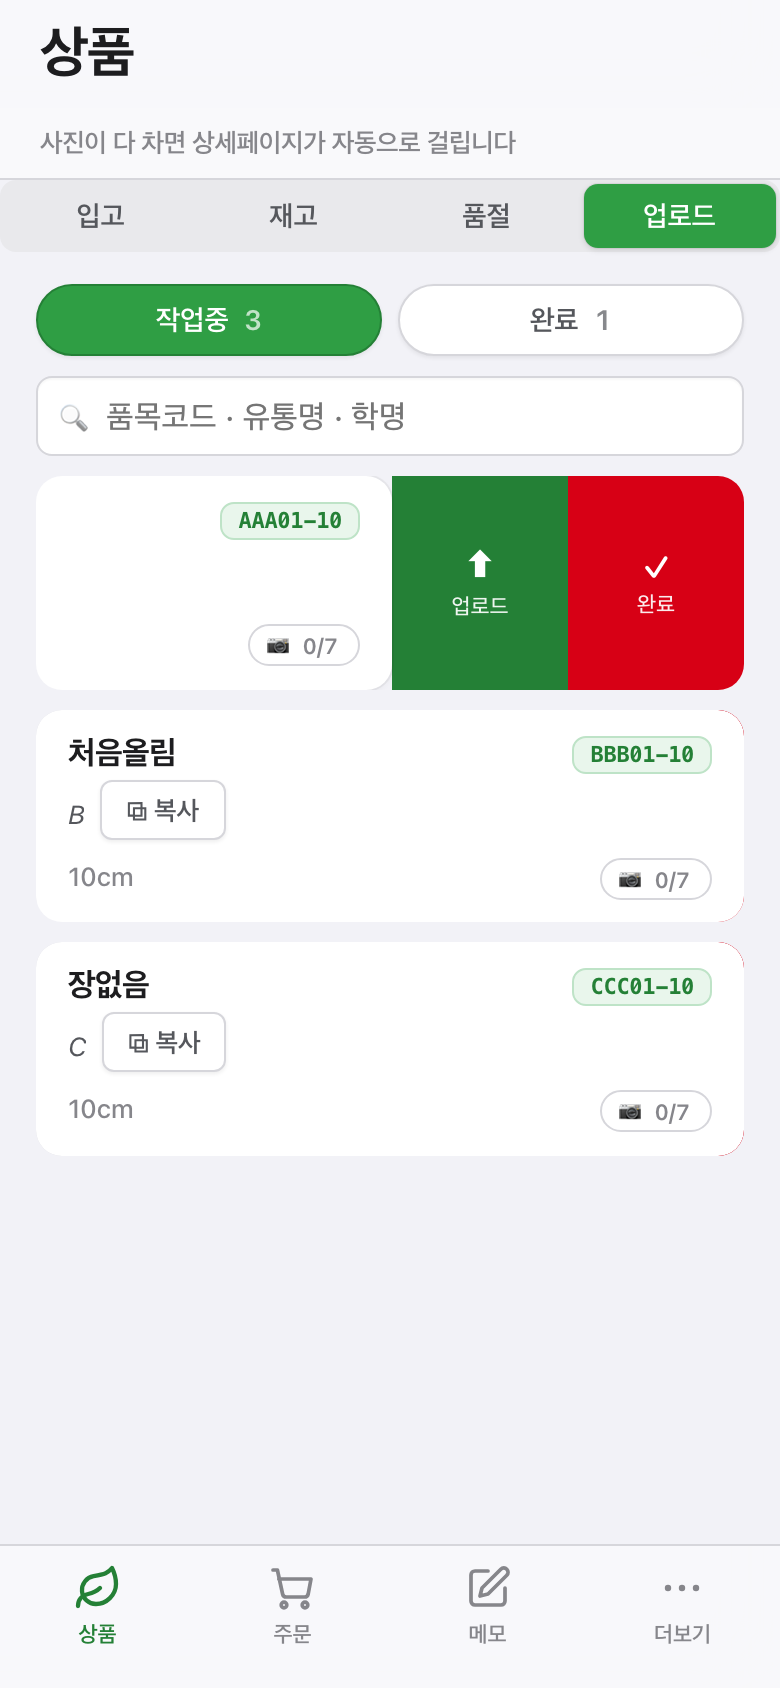
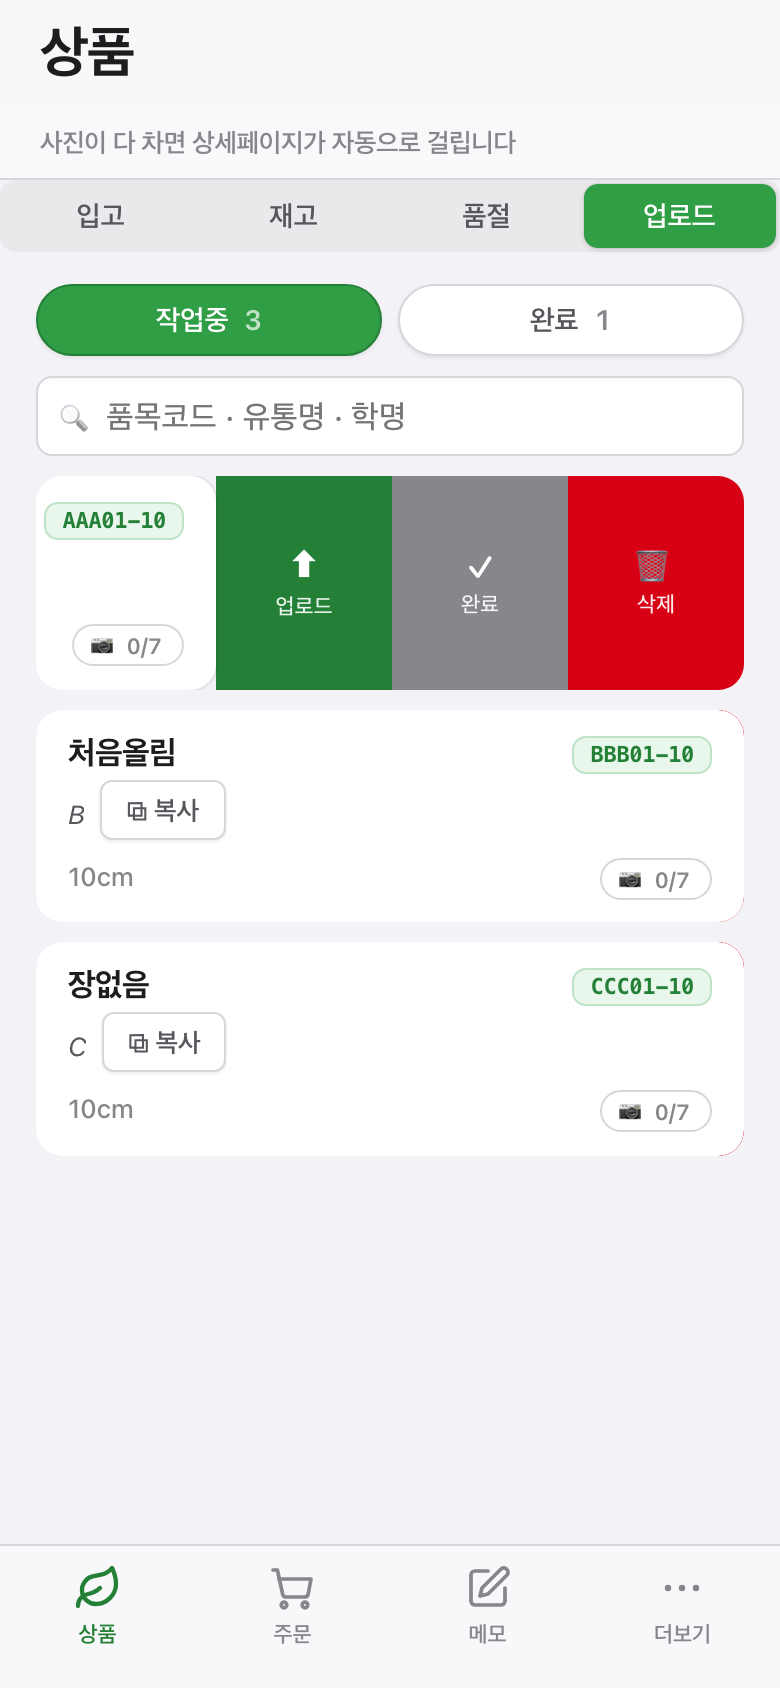
작업중 카드 [삭제](작업중뺌 소프트 표시·카페24 품목은 확인창) · 지시함: 상세페이지갱신 성공도 완료로 넘김

diff --git a/v3/js/06g-사진수집.js b/v3/js/06g-사진수집.js
@@ -155,7 +155,7 @@ window.ZG = window.ZG || {};
   function 대기품목(뺀것, 거름) {
     var 상 = 상태표(), 찾 = 거름 === false ? '' : 납작(검색글);
     return ZG.저장소.품목들().filter(function (p) {
-      return (p.등록일시 || 0) >= 경계 && (뺀것 ? !!p.사진뺌 : !p.사진뺌) &&
+      return (p.등록일시 || 0) >= 경계 && (뺀것 ? !!p.사진뺌 : !p.사진뺌 && !p.작업중뺌) &&
         (!찾 || 납작(p.품목코드 + p.유통명 + p.학명).indexOf(찾) >= 0);
     }).sort(function (a, b) {
       var x = 상[a.품목코드] === '끝' ? 1 : 0, y = 상[b.품목코드] === '끝' ? 1 : 0;
@@ -187,6 +187,25 @@ window.ZG = window.ZG || {};
     ZG.저장소.바꾸기(ZG.저장소.키.품목, p.품목코드, { 사진뺌: 끝낼까, 수정일시: Date.now() });
     u.토스트((끝낼까 ? '완료했습니다 — ' : '작업중으로 되돌렸습니다 — ') + p.품목코드);
     칠하기();
+  }
+
+  /* 작업중 카드 [삭제] = 작업중 목록에서만 뺀다 — 품목 행에 `작업중뺌:true` 표시만 남긴다(2026-10-18 우람님).
+     🔴 품목을 지우는 게 아니다(`삭제됨` 이 아니다) · 사진·원고·결과·카페24 상품은 그대로다.
+     🔴 카페24에 올라간 품목이면 먼저 확인창. 되살리기 단추는 없다 — 품목 행의 `작업중뺌` 을 false 로 */
+  function 작업중빼기(p, 끝냄) {
+    function 빼() {
+      ZG.저장소.바꾸기(ZG.저장소.키.품목, p.품목코드, { 작업중뺌: true, 수정일시: Date.now() });
+      u.토스트('작업중에서 뺐습니다 — ' + p.품목코드);
+      칠하기();
+    }
+    var 자료 = ZG.원고자료;
+    var 읽기 = 자료 && 자료.불러오기 ? 자료.불러오기(p.품목코드) : Promise.reject(new Error('자료 없음'));
+    읽기.then(function (r) { return (r && r.머리 && r.머리.카페24번호) || null; }, function () { return null; })
+      .then(function (올림) {
+        if (!올림) { 빼(); return; }
+        u.확인({ 제목: '작업중에서 뺄까요?', 본문: '카페24 상품은 그대로 둡니다.<br>목록에서만 사라집니다.', 확인글: '뺀다', 위험: true },
+          function (예) { if (예) 빼(); else if (끝냄) 끝냄(); });
+      });
   }
 
   function 뺌단추(p) {
@@ -336,6 +355,16 @@ window.ZG = window.ZG || {};
     싼것.appendChild(뒷);
     /* 작업중 카드는 [업로드]가 하나 더 — 결과 창의 「상품 업로드/상세페이지 갱신」과 같은 지시를 낸다 */
     var 둘 = !삭제 && !완료보기 && ZG.결과화면 && ZG.결과화면.카드올리기;
+    if (!삭제 && !완료보기) {
+      싼것.classList.add('셋');
+      var 빼 = 만들기('button', { type: 'button', class: '뒷단추 삭제', html: '🗑<span>삭제</span>' });
+      빼.addEventListener('click', function (e) {
+        e.stopPropagation();
+        if (열린칸 && 열린칸.__닫기) 열린칸.__닫기();
+        작업중빼기(p);
+      });
+      싼것.appendChild(빼);
+    }
     if (둘) {
       싼것.classList.add('둘');
       var 올 = 만들기('button', { type: 'button', class: '뒷단추 올림', html: '⬆<span>업로드</span>' });
@@ -348,7 +377,7 @@ window.ZG = window.ZG || {};
       싼것.appendChild(올);
     }
     싼것.appendChild(칸);
-    밀기붙이기(싼것, 칸, p, 둘 ? 단추폭 * 2 : 단추폭);
+    밀기붙이기(싼것, 칸, p, (!삭제 && !완료보기 ? 1 : 0) * 단추폭 + (둘 ? 단추폭 * 2 : 단추폭));
     return 싼것;
   }
 
@@ -382,7 +411,7 @@ window.ZG = window.ZG || {};
     카드.appendChild(머리);
     var 표 = 만들기('table');
     표.innerHTML =
-      '<colgroup><col style="width:110px"><col><col style="width:110px"><col style="width:120px"><col style="width:56px"></colgroup>' +
+      '<colgroup><col style="width:110px"><col><col style="width:110px"><col style="width:120px"><col style="width:104px"></colgroup>' +
       '<thead><tr><th>품목코드</th><th>유통명 · 학명</th><th>규격</th><th>사진</th><th></th></tr></thead>';
     var 몸 = 만들기('tbody');
     목록.forEach(function (p) {
@@ -395,6 +424,11 @@ window.ZG = window.ZG || {};
         '<td class="뺌칸"></td>';
       칩달기(줄.querySelector('.chip'), p, 상[p.품목코드]);
       줄.querySelector('.뺌칸').appendChild(뺌단추(p));
+      if (!완료보기) {
+        var 지 = 만들기('button', { type: 'button', class: '뺌', text: '삭제', title: '작업중 목록에서 뺍니다' });
+        지.addEventListener('click', function (e) { e.stopPropagation(); 작업중빼기(p); });
+        줄.querySelector('.뺌칸').appendChild(지);
+      }
       복사걸기(줄, p);
       줄.addEventListener('click', function () { 열기(p); });
       몸.appendChild(줄);

diff --git a/v3/index.html b/v3/index.html
@@ -15,7 +15,7 @@
 <meta http-equiv="Cache-Control" content="no-cache">
 
 <link rel="stylesheet" href="css/공통.css?v=89">
-<link rel="stylesheet" href="css/상품.css?v=135">
+<link rel="stylesheet" href="css/상품.css?v=136">
 <style>
   /* 상품 이미지 탭에서만 쓰는 모양새 */
   .img-틀{display:flex;flex-direction:column;height:calc(100vh - 142px);min-height:520px}
@@ -99,7 +99,7 @@
 <script src="js/06d-상품이미지.js?v=72"></script>
 <script src="js/06e-제작요청.js?v=74"></script>
 <script src="js/06f-블로그.js?v=72"></script>
-<script src="js/06g-사진수집.js?v=135"></script>
+<script src="js/06g-사진수집.js?v=136"></script>
 <script src="js/06h-원고자료.js?v=80"></script>
 <script src="js/06i-원고화면.js?v=79"></script>
 <script src="js/06j-결과화면.js?v=89"></script>

diff --git a/v3/css/상품.css b/v3/css/상품.css
@@ -127,6 +127,9 @@ td.뺌칸{text-align:right}
 }
 .민칸.되돌리기 .뒷단추{background:var(--color-text-muted)}
 .민칸 .뒷단추.올림{right:88px; background:var(--color-accent-dark)}
+.민칸.셋 .뒷단추{right:88px; background:var(--color-text-muted)}
+.민칸.셋 .뒷단추.올림{right:176px; background:var(--color-accent-dark)}
+.민칸.셋 .뒷단추.삭제{right:0; background:var(--color-danger)}
 .민칸 .뒷단추 span{font-size:var(--font-2xs); font-weight:var(--weight-medium); opacity:.92}
 
 /* PC·태블릿은 밀 일이 없다 — ✕ 를 그대로 쓴다 */

diff --git a/v3/검수/24-업로드탭/작업중업로드-시험.py b/v3/검수/24-업로드탭/작업중업로드-시험.py
@@ -51,8 +51,8 @@ try:
         본다('작업중 카드 3장(완료 품목 제외)', 코드 == ['AAA01-10', 'BBB01-10', 'CCC01-10'], 코드)
         쪽.evaluate(미끄럼, 0); 쪽.wait_for_timeout(500)
         단 = 쪽.eval_on_selector_all('.민칸:nth-child(1) .뒷단추', 'bs => bs.map(b => b.innerText.replace(/\\s+/g, ""))')
-        본다('작업중 밀기 — 업로드 · 완료 두 단추', sorted(단) == sorted(['⬆업로드', '✓완료']), 단)
-        본다('밀면 두 단추 폭(176)만큼 열림', '-176' in 쪽.eval_on_selector('.민칸:nth-child(1) .ph-card', 'e => e.style.transform'), 쪽.eval_on_selector('.민칸:nth-child(1) .ph-card', 'e => e.style.transform'))
+        본다('작업중 밀기 — 업로드 · 완료 · 삭제 세 단추', sorted(단) == sorted(['⬆업로드', '✓완료', '🗑삭제']), 단)
+        본다('밀면 세 단추 폭(264)만큼 열림', '-264' in 쪽.eval_on_selector('.민칸:nth-child(1) .ph-card', 'e => e.style.transform'), 쪽.eval_on_selector('.민칸:nth-child(1) .ph-card', 'e => e.style.transform'))
         쪽.screenshot(path=str(pathlib.Path(__file__).parent / '폰-7-작업중밀기.png'))
         쪽.click('.민칸:nth-child(1) .뒷단추.올림'); 쪽.wait_for_timeout(500)
         제 = 쪽.inner_text('.askbox')
@@ -72,6 +72,26 @@ try:
         쪽.evaluate(미끄럼, 2); 쪽.wait_for_timeout(500)
         쪽.click('.민칸:nth-child(3) .뒷단추.올림'); 쪽.wait_for_timeout(600)
         본다('발행 장 없으면 확인창 없이 이유 토스트 · 지시 안 씀', not 쪽.query_selector('.askbox') and len(쪽.evaluate('() => window.__쓴것')) == 2, 쪽.evaluate('() => document.body.innerText').count('먼저 만드십시오'))
+        # 삭제 — 번호 없는 BBB 는 바로, 번호 있는 AAA 는 확인창 (취소하면 그대로)
+        쪽.evaluate(미끄럼, 1); 쪽.wait_for_timeout(500)
+        쪽.click('.민칸:nth-child(2) .뒷단추.삭제'); 쪽.wait_for_timeout(500)
+        코드 = 쪽.eval_on_selector_all('.민칸 .cd', 'es => es.map(e => e.textContent)')
+        본다('번호 없음 삭제 → 확인창 없이 작업중에서 빠짐', not 쪽.query_selector('.askbox') and 코드 == ['AAA01-10', 'CCC01-10'], 코드)
+        쪽.evaluate(미끄럼, 0); 쪽.wait_for_timeout(500)
+        쪽.click('.민칸:nth-child(1) .뒷단추.삭제'); 쪽.wait_for_timeout(500)
+        본다('카페24 올라간 품목 삭제 → 「카페24 상품은 그대로 둡니다」', '카페24 상품은 그대로 둡니다' in 쪽.inner_text('.askbox'))
+        쪽.click('.askbox .btn:not(.warn)'); 쪽.wait_for_timeout(400)
+        코드 = 쪽.eval_on_selector_all('.민칸 .cd', 'es => es.map(e => e.textContent)')
+        본다('취소하면 그대로', 코드 == ['AAA01-10', 'CCC01-10'], 코드)
+        쪽.evaluate(미끄럼, 0); 쪽.wait_for_timeout(500)
+        쪽.click('.민칸:nth-child(1) .뒷단추.삭제'); 쪽.wait_for_timeout(500)
+        쪽.click('.askbox .btn.warn'); 쪽.wait_for_timeout(500)
+        코드 = 쪽.eval_on_selector_all('.민칸 .cd', 'es => es.map(e => e.textContent)')
+        본다('확인하면 작업중에서 빠짐', 코드 == ['CCC01-10'], 코드)
+        저 = 쪽.evaluate("() => JSON.parse(localStorage.getItem('zg.v3.품목'))")
+        표 = {x['품목코드']: x for x in 저}
+        본다('소프트 처리 — 작업중뺌만 true · 삭제됨·사진뺌 안 건드림 · 행은 남음',
+             all(표[c].get('작업중뺌') is True and not 표[c].get('삭제됨') and not 표[c].get('사진뺌') for c in ('AAA01-10', 'BBB01-10')) and 'CCC01-10' in 표 and not 표['CCC01-10'].get('작업중뺌'))
         # 완료 탭
         쪽.click('.갈래칩 .fchip:nth-child(2)'); 쪽.wait_for_timeout(700)
         쪽.evaluate(미끄럼.replace('.민칸 .ph-card', '.민칸 .sc'), 0); 쪽.wait_for_timeout(500)
@@ -84,7 +104,12 @@ try:
         쪽2 = ctx2.new_page(); 오2 = []
         쪽2.on('pageerror', lambda e: 오2.append(str(e))); 쪽2.route('**cdn.jsdelivr.net**', lambda r: r.abort())
         쪽2.add_init_script(심기); 쪽2.goto('http://localhost:8795/index.html#작업중'); 쪽2.wait_for_timeout(1500)
+        쪽2.evaluate(가짜); 쪽2.wait_for_timeout(500)
         본다('PC 작업중 표 정상 · 에러 없음', 쪽2.query_selector('table') is not None and not 오2, 오2)
+        본다('PC 작업중 줄마다 ✓ · 삭제 단추', 쪽2.eval_on_selector_all('tbody tr:first-child .뺌칸 .뺌', 'bs => bs.map(b => b.textContent)') == ['✓', '삭제'])
+        쪽2.click('tbody tr:first-child .뺌칸 .뺌:nth-child(2)'); 쪽2.wait_for_timeout(500)
+        본다('PC 삭제 → 확인창(번호 있는 첫 줄) 뜸', '카페24 상품은 그대로 둡니다' in 쪽2.inner_text('.askbox'))
+        쪽2.screenshot(path=str(pathlib.Path(__file__).parent / 'PC-9-작업중삭제.png'))
         브.close()
 finally:
     서버.terminate()

diff --git a/도구/지시함.py b/도구/지시함.py
@@ -733,11 +733,11 @@ def 완료로넘기기(내용, 됐나):
 
        🔴 완료 열쇠는 품목의 `사진뺌` 이다 — 06g-사진수집.js:164. 이름이 뜻과 안 맞지만
           갈면 이미 빼 두신 품목이 통째로 작업중으로 되돌아온다. 그대로 쓴다.
-       🔴 **첫 업로드(`카페24올리기`)만** 넘긴다. `상세페이지갱신` 은 손대지 않는다 —
-          우람님이 일부러 작업중으로 되돌려 두신 것을 갱신이 다시 밀어 버리면 안 된다.
+       🔴 `카페24올리기` · `상세페이지갱신` 성공 때 넘긴다 (2026-10-18 우람님 — 작업중으로
+          되돌려 다시 올린 뒤에는 자동으로 완료로).
        🔴 이미 완료면 아무것도 안 한다 — 애먼 `수정일시` 로 다른 창을 깨우지 않는다.
        🔴 절대 넘어지지 않는다 — 다 끝난 일을 이것 때문에 실패로 만들지 않는다."""
-    if not 됐나 or 내용.get('갈래') != '카페24올리기':
+    if not 됐나 or 내용.get('갈래') not in ('카페24올리기', '상세페이지갱신'):
         return
     try:
         코드 = 내용.get('품목코드')
